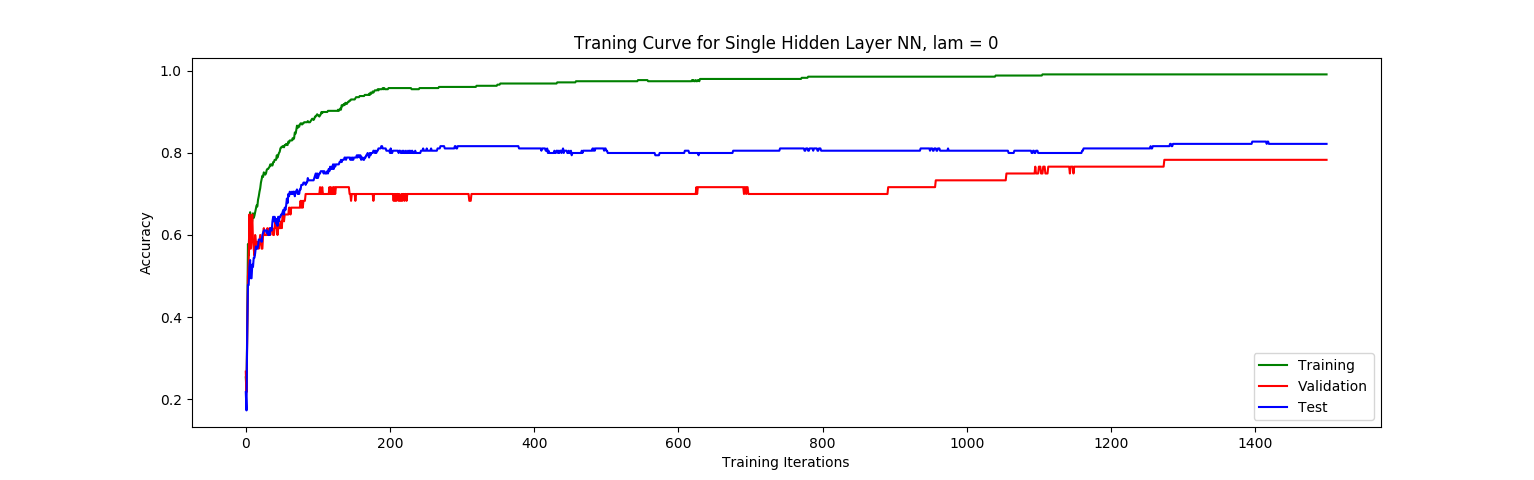
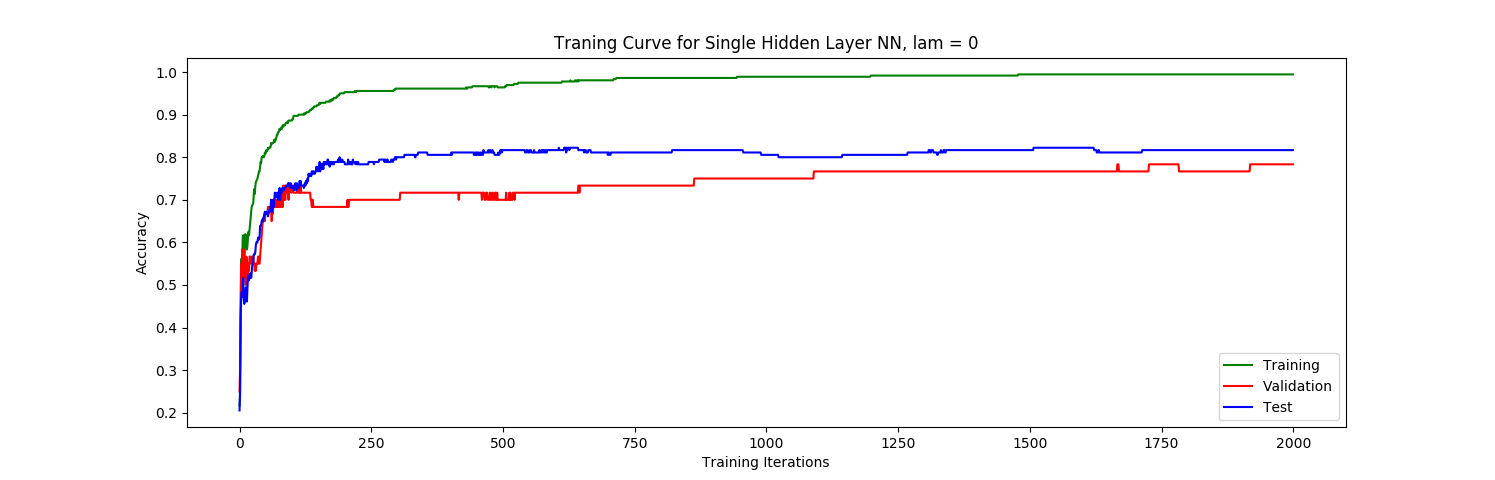
updated faces.py to runable condition for CDF and updated some visualization images

diff --git a/faces.py b/faces.py
@@ -565,93 +565,68 @@ def p9(act_set, avg_size = 10):
         
 
 ## INIT CODE
-__name__ = "__main__"
 # Set log level, for convience, avaliable options are:
 # ALL, SHORT, INFO, WARNING, NONE
 log_level = "SHORT"
 
-if __name__ == "__init__":
-    # Execution start here
-    
-    ## Part 1 Gather Data
-    # Download, filter, crop and resize images to be used
-    
-    
-    #uncomment all these code below to run entire process
-    files = ["facescrub_actors.txt","facescrub_actresses.txt"]
-    newfile = open('combined_face_scrub.txt', 'w')
-    newfile.write( ''.join([open(f).read() for f in files]))
-    newfile.close
-    
-    act = list(set([a.split("\t")[0] for a in open("combined_face_scrub.txt").readlines()]))
-    make_folders(('uncropped_all/','uncropped_all','cropped_all','grey_all','resized_all'))
-    fetch_image_URL_mod(act, "uncropped_all/","combined_face_scrub.txt","uncropped_all/0_subset_crop_info.txt")
-    crop_images(act, "uncropped_all/","cropped_all/","uncropped_all/0_subset_crop_info.txt","cropped_all/0_output_info.txt")
-    convert_grey(act, "cropped_all/","grey_all/","uncropped_all/0_subset_crop_info.txt")
-    resize_32x32(act, "grey_all/","resized_all/","cropped_all/0_output_info.txt","resized_all/0_set_info.txt")
-    
-    # end of init code
-    
-if __name__ == "__main__":
-    
-    #t = int(time.time())
-    t = 1454219613
-    print "t=", t
-    random.seed(t)
-    
-    # Pick the data set to be used for each actor
-    
-    #Build actor list
-    act =['Fran Drescher', 'America Ferrera', 'Kristin Chenoweth', 'Alec Baldwin', 'Bill Hader', 'Steve Carell']
-    
-    act_set = pick_sets(act, "resized_all/0_set_info.txt")
-    print('actor order are:')
-    actor_order = []
-    count = 0
-    for i in act_set:
-        print(str(count) + ':' + i[0])
-        actor_order.append(i[0])
-        count += 1
-    print(actor_order)
+# Execution start here
 
-    
-    import tensorflow as tf
-    
-    #p7_8(act_set, lam = 0.0, iter = 5000, nhid = 360, af):
-    
-    
-    # p7_8(act_set, "sigmoid", 0.1, 2000, 360)   
-    # 
-    # p7_8(act_set, "relu", 0.1, 3000, 360)       
-    # p7_8(act_set, "relu", 1, 3000, 360)          
-    # p7_8(act_set, "relu", 2, 3000, 360)      
-    # p7_8(act_set, "relu", 3, 3000, 360)     
-    # p7_8(act_set, "relu", 6.67, 3000, 360)     
-    # p7_8(act_set, "relu", 10, 3000, 360)  
-    # 
-    p9(act_set);
-    p9(act_set,1);
-    
-        
-    
-    # for i in range(10):
-    #     square_theta = np.reshape(W0.eval(sess).T[i],(32,32))    
-    #     try:
-    #         plt.figure()
-    #         plt.imshow(square_theta, interpolation='sinc')
-    #         plt.title("Theta #:" + str(i))
-    #         plt.show()
-    #     except:
-    #         print("plot fail")
-            
-        
-    # a = np.dot([0,1,0,0,0,0], W1.eval(sess).T)
-    # b = W0.eval(sess).T[np.argmax(a)]
-    # square_theta = np.reshape(b,(32,32))            
-    # plt.figure()
-    # plt.imshow(square_theta, interpolation='mitchell')
-    # plt.title("Theta Test")
-    # plt.show()
-    #     
-    
+## Part 1 Gather Data
+# Download, filter, crop and resize images to be used
+
+
+#uncomment all these code below to run entire process
+files = ["facescrub_actors.txt","facescrub_actresses.txt"]
+newfile = open('combined_face_scrub.txt', 'w')
+newfile.write( ''.join([open(f).read() for f in files]))
+newfile.close
+
+act = list(set([a.split("\t")[0] for a in open("combined_face_scrub.txt").readlines()]))
+make_folders(('uncropped_all/','uncropped_all','cropped_all','grey_all','resized_all'))
+fetch_image_URL_mod(act, "uncropped_all/","combined_face_scrub.txt","uncropped_all/0_subset_crop_info.txt")
+crop_images(act, "uncropped_all/","cropped_all/","uncropped_all/0_subset_crop_info.txt","cropped_all/0_output_info.txt")
+convert_grey(act, "cropped_all/","grey_all/","uncropped_all/0_subset_crop_info.txt")
+resize_32x32(act, "grey_all/","resized_all/","cropped_all/0_output_info.txt","resized_all/0_set_info.txt")
+
+# end of init code
+
+#t = int(time.time())
+t = 1454219613
+print "t=", t
+random.seed(t)
+
+# Pick the data set to be used for each actor
+
+#Build actor list
+act =['Fran Drescher', 'America Ferrera', 'Kristin Chenoweth', 'Alec Baldwin', 'Bill Hader', 'Steve Carell']
+
+act_set = pick_sets(act, "resized_all/0_set_info.txt")
+print('actor order are:')
+actor_order = []
+count = 0
+for i in act_set:
+    print(str(count) + ':' + i[0])
+    actor_order.append(i[0])
+    count += 1
+print(actor_order)
+
+
+import tensorflow as tf
+
+#p7_8(act_set, lam = 0.0, iter = 5000, nhid = 360, af):
+
+
+p7_8(act_set, "sigmoid", 0, 2000, 360)   
+
+p7_8(act_set, "relu", 0.1, 3000, 360)       
+p7_8(act_set, "relu", 1, 3000, 360)          
+p7_8(act_set, "relu", 2, 3000, 360)      
+p7_8(act_set, "relu", 3, 3000, 360)     
+p7_8(act_set, "relu", 6.67, 3000, 360)     
+p7_8(act_set, "relu", 10, 3000, 360)  
+
+p9(act_set);
+p9(act_set,1);
+
+
     
